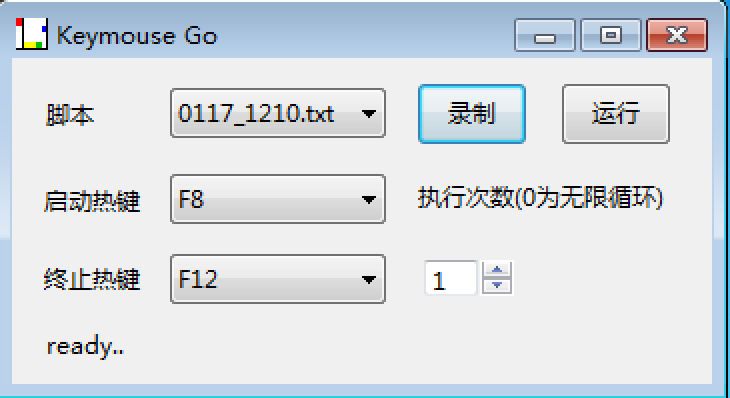
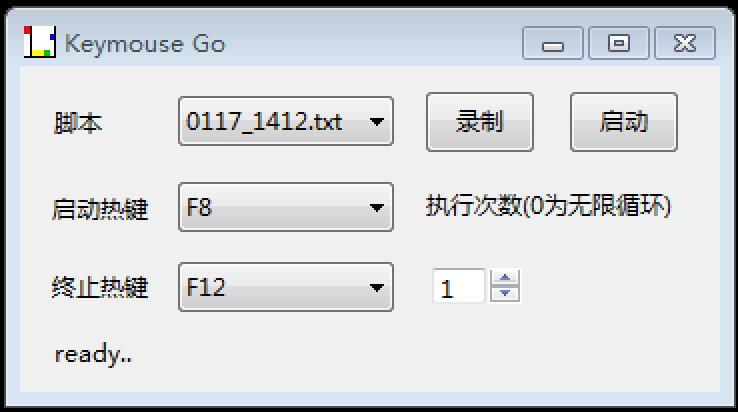
v1.3 fix bug

diff --git a/Frame1.py b/Frame1.py
@@ -25,6 +25,7 @@ hm.keyboard_hook = False
 hm.mouse_hook = False
 global hm2
 hm2 = pyHook.HookManager()
+hm2.keyboard_hook = False
 
 
 KEYS = ['F3', 'F4', 'F5', 'F6', 'F7', 'F8', 'F9', 'F10', 'F11', 'F12']
@@ -102,7 +103,6 @@ class Frame1(wx.Frame):
               label=u'If you want to stop it, Press F12', name='tstop',
               parent=self.panel1, pos=wx.Point(25, 332), size=wx.Size(183, 18),
               style=0)
-        self.tstop.SetToolTipString('tstop')
         self.tstop.Show(False)
 
         self.stimes = wx.SpinCtrl(id=wxID_FRAME1STIMES, initial=0, max=1000,
@@ -161,7 +161,6 @@ class Frame1(wx.Frame):
         mself=self
         
         self._init_ctrls(parent)
-
         
         self.SetIcon(GetMondrianIcon())
         self.taskBarIcon = TaskBarIcon(self) 
@@ -384,7 +383,7 @@ class TaskBarIcon(wx.TaskBarIcon):
         self.frame.Raise()
 
     def OnAbout(self,event):
-        wx.MessageBox('KeymouseGo v1.2', 'KeymouseGo')
+        wx.MessageBox('https://github.com/taojy123/KeymouseGo', 'KeymouseGo')
         event.Skip()
 
     def OnCloseshow(self,event):

diff --git a/README.md b/README.md
@@ -1,4 +1,4 @@
-# KeymouseGo v1.2
+# KeymouseGo v1.3
 
 功能：记录用户的鼠标键盘操作，通过触发按钮自动执行之前记录的操作，可设定执行的次数，可以理解为 `精简绿色版` 的 `按键精灵`。
 
@@ -9,7 +9,7 @@
 
 该软件通过 `Python` 语言编写，已编译为 `windows` 平台可执行文件，未安装 `Python` 的用户可直接下载 `release` 版本 https://github.com/taojy123/KeymouseGo/releases ，直接点击 `KeymouseGo.exe` 运行
 
-<img src="https://raw.githubusercontent.com/taojy123/KeymouseGo/master/sample.png" width="365">
+<img src="https://raw.githubusercontent.com/taojy123/KeymouseGo/master/sample.png" width="370">
 
 ----------------------
 
@@ -73,6 +73,9 @@
 ----------------------
 
 # 更新说明
+
+## v1.3
++ Bug 修复
 
 ## v1.2
 + UI 更新
